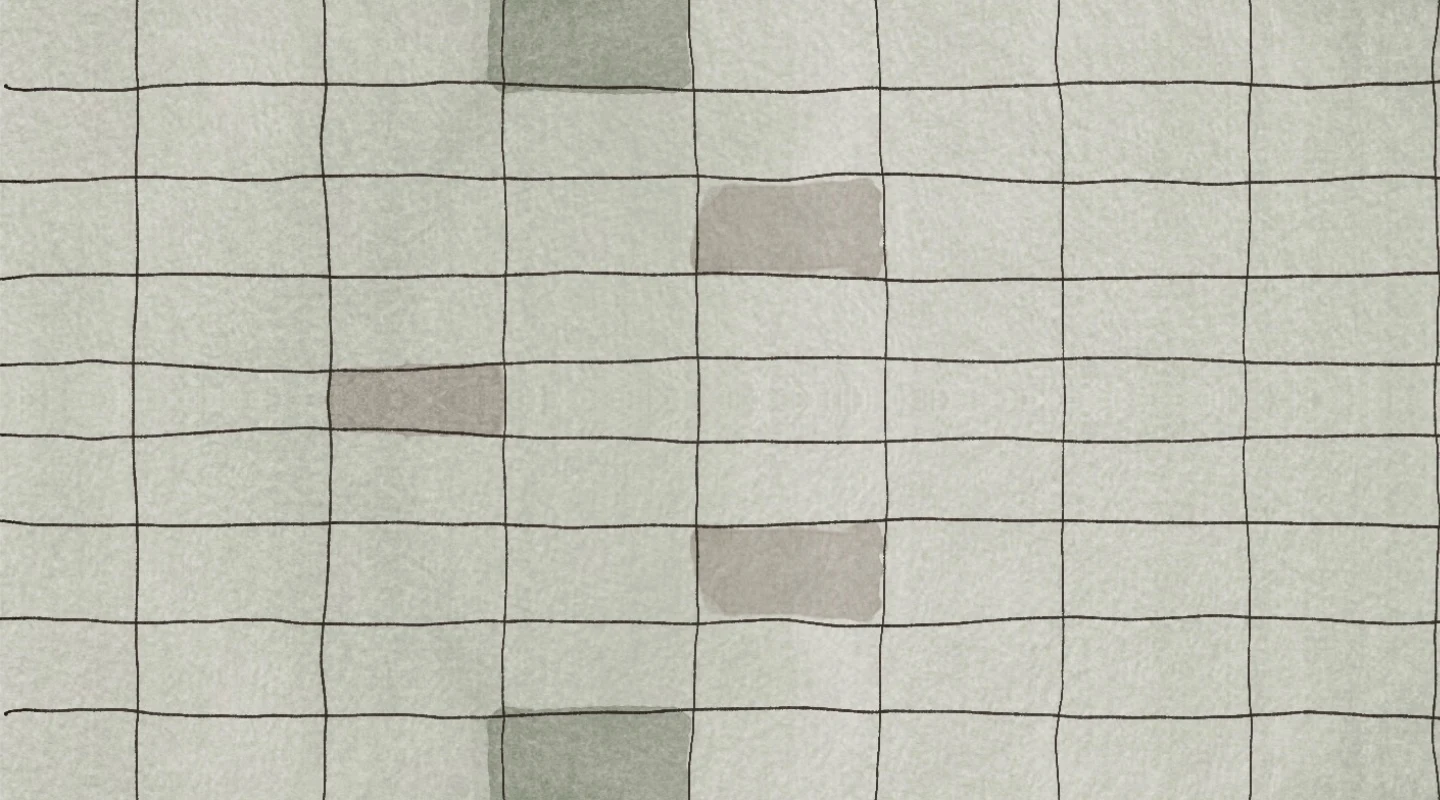
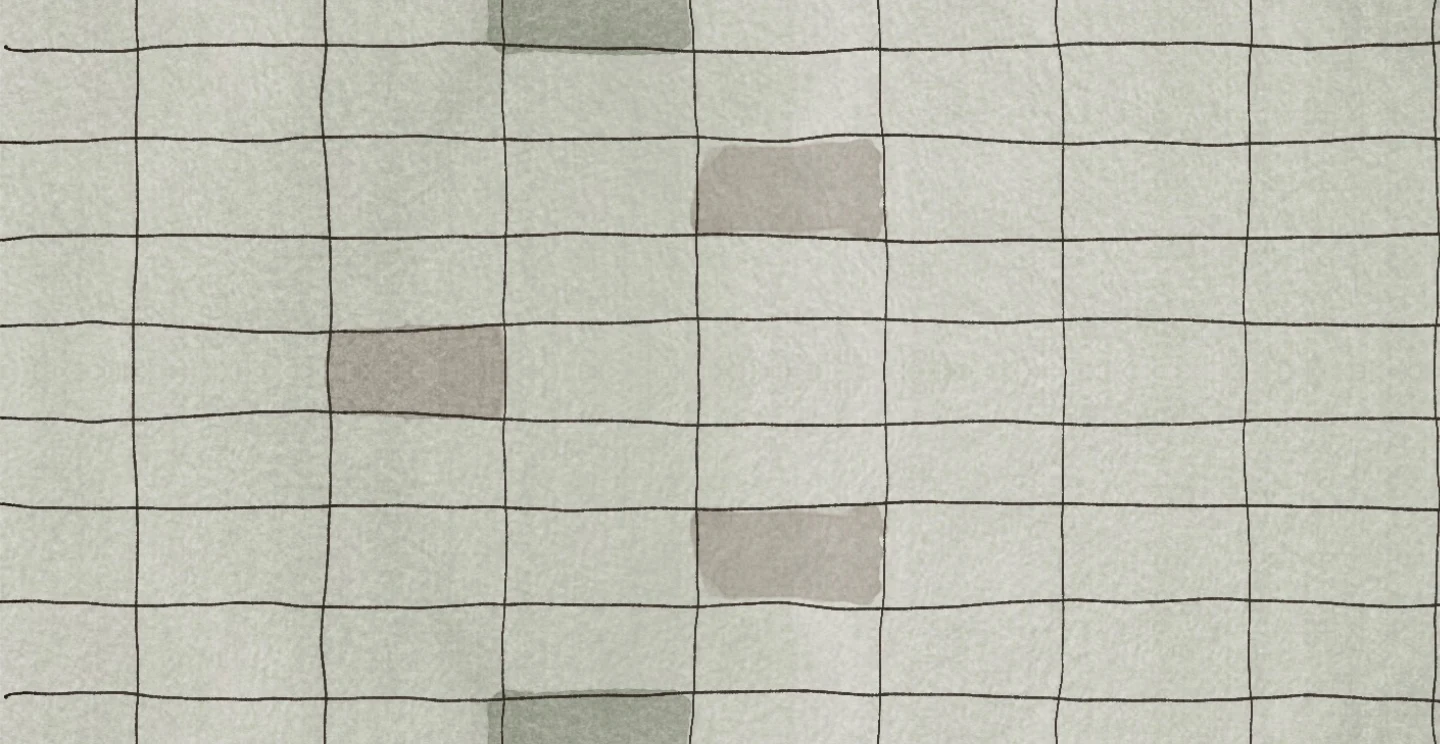
Fix cropped and uneven tiles on home and projects pages

diff --git a/style.css b/style.css
@@ -25,7 +25,8 @@ a:focus-visible{outline:3px solid var(--yellow);outline-offset:4px}
 .scene{position:relative;overflow:hidden;height:max(100svh,52vw)}
 .art{--w:max(100vw,112.5svh);--h:calc(var(--w)*.8889);
   position:absolute;width:var(--w);height:var(--h);left:calc((100vw - var(--w))*.48);
-  top:calc((max(100svh,52vw) - var(--h))*.76)}
+  /* never let the name slide up under the menu: keep a strip of tiles above it */
+  top:max(calc((max(100svh,52vw) - var(--h))*.76),calc(var(--nav-h) - var(--w)*.245))}
 .art img.wall{position:absolute;inset:0;width:100%;height:100%;max-width:none;display:block}
 .buttons{position:absolute;left:13.4%;width:70%;top:57%;display:grid;grid-template-columns:repeat(3,1fr);gap:3%}
 .btn{display:grid;place-items:center;aspect-ratio:1864/520;color:var(--white);text-decoration:none;
@@ -45,15 +46,16 @@ a:focus-visible{outline:3px solid var(--yellow);outline-offset:4px}
 
 /* Portrait screens: wall sits above, buttons stack on the white paper */
 @media (max-aspect-ratio:9/10){
-  .scene{height:max(100svh,calc(var(--top) + 106vw + 270px));
-    --top:clamp(-20vw,calc(100svh - 280px - 106vw),36vw)}
+  .scene{height:max(100svh,calc(var(--top) + 106vw + 230px));
+    --top:clamp(var(--least),calc(100svh - 235px - 106vw),36vw);--least:6vw}
   .art{--w:130vw;left:-13vw;top:var(--top);font-size:20px}
   .art::before{content:"";position:absolute;left:0;right:0;bottom:calc(100% - var(--w)*.01 - 1px);height:calc(var(--w)*.29);
     background:url(assets/home.jpg) 0 calc(var(--w)*-.01)/100% auto;transform:scaleY(-1)}
   .art img.wall{-webkit-mask:linear-gradient(#000 95%,transparent);mask:linear-gradient(#000 95%,transparent);clip-path:inset(1.12% 0 0)}
-  .buttons{top:calc(100% - 4vw);left:48.4%;width:225px;margin-left:-112px;grid-template-columns:1fr;gap:12px}
-  .btn{font-size:21px}
+  .buttons{top:calc(100% - 4vw);left:48.4%;width:190px;margin-left:-95px;grid-template-columns:1fr;gap:10px}
+  .btn{font-size:19px}
 }
+@media (max-aspect-ratio:9/10) and (min-width:600px){.scene{--least:-20vw}}
 
 /* ---------- inner pages ---------- */
 .page{min-height:100svh;max-width:1100px;margin:0 auto;padding:calc(var(--nav-h) + 8vh) max(24px,5vw) 10vh}

diff --git a/projects.css b/projects.css
@@ -1,6 +1,6 @@
 /* Projects: a painted line map hung on the station wall */
 .station{min-height:100svh;display:flex;flex-direction:column;align-items:center;gap:clamp(20px,4vh,44px);
-  padding-top:calc(var(--nav-h) + clamp(18px,3.5vh,40px));background:#c9cbc2 url(assets/wall.webp) top/100% auto}
+  padding-top:calc(var(--nav-h) + clamp(18px,3.5vh,40px));background:#c9cbc2 url(assets/wall.webp) top/max(100%,760px) auto}
 .poster{position:relative;flex:none;margin-block:auto;background-size:100% 100%;box-shadow:0 2px 3px rgb(31 26 26/.35),0 14px 30px rgb(31 26 26/.28);container-type:inline-size}
 .poster.wide{aspect-ratio:16/9;width:min(92vw,calc((100svh - var(--nav-h) - 150px)*1.7778));min-width:min(92vw,620px);background-image:url(assets/map-wide.webp)}
 .poster.tall{aspect-ratio:8/15;width:min(92vw,620px);background-image:url(assets/map-tall.webp)}
